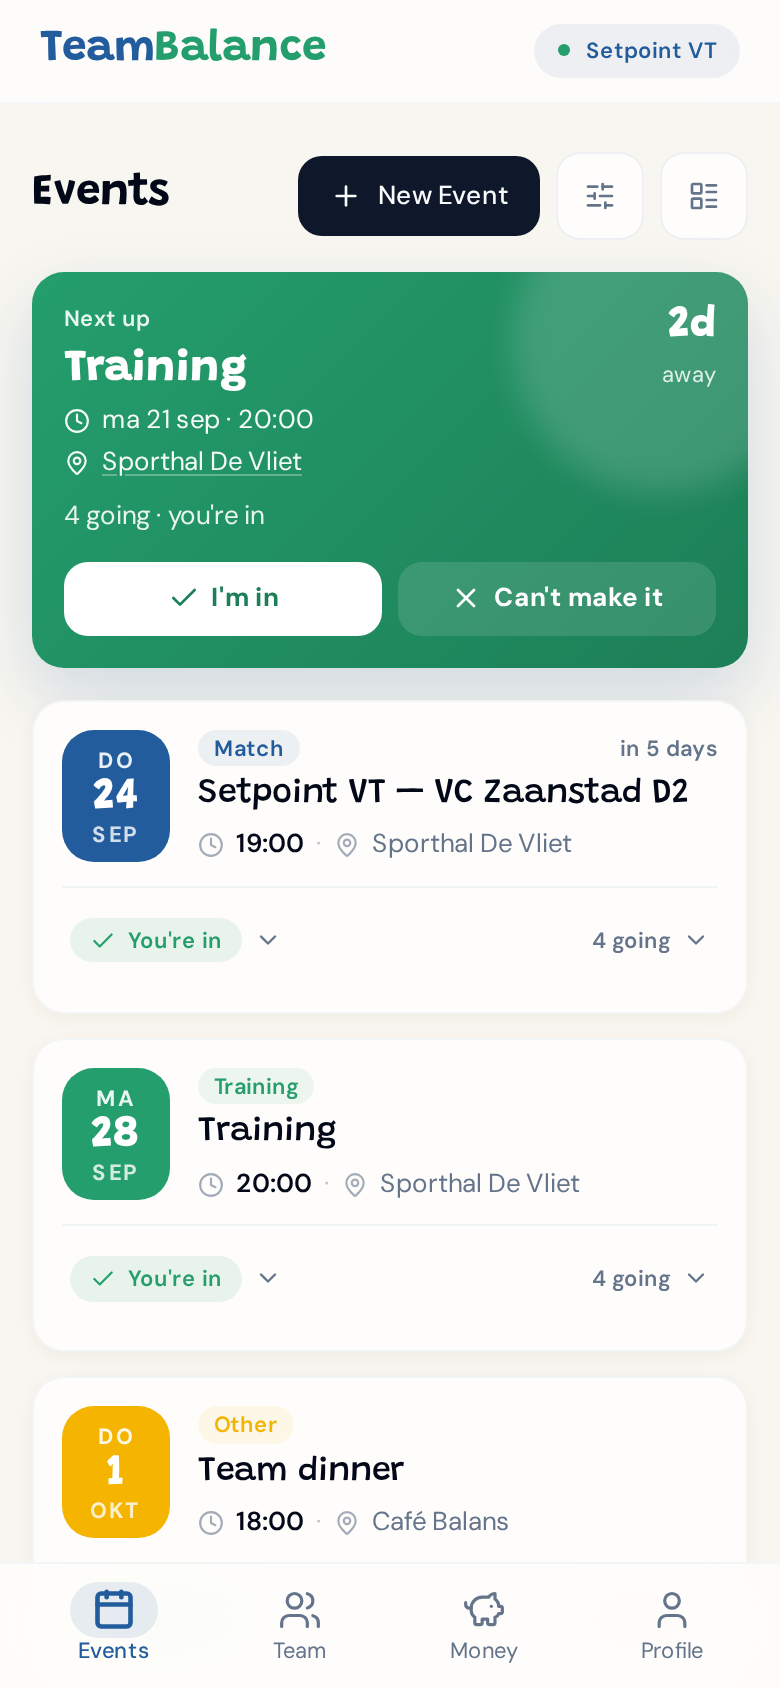
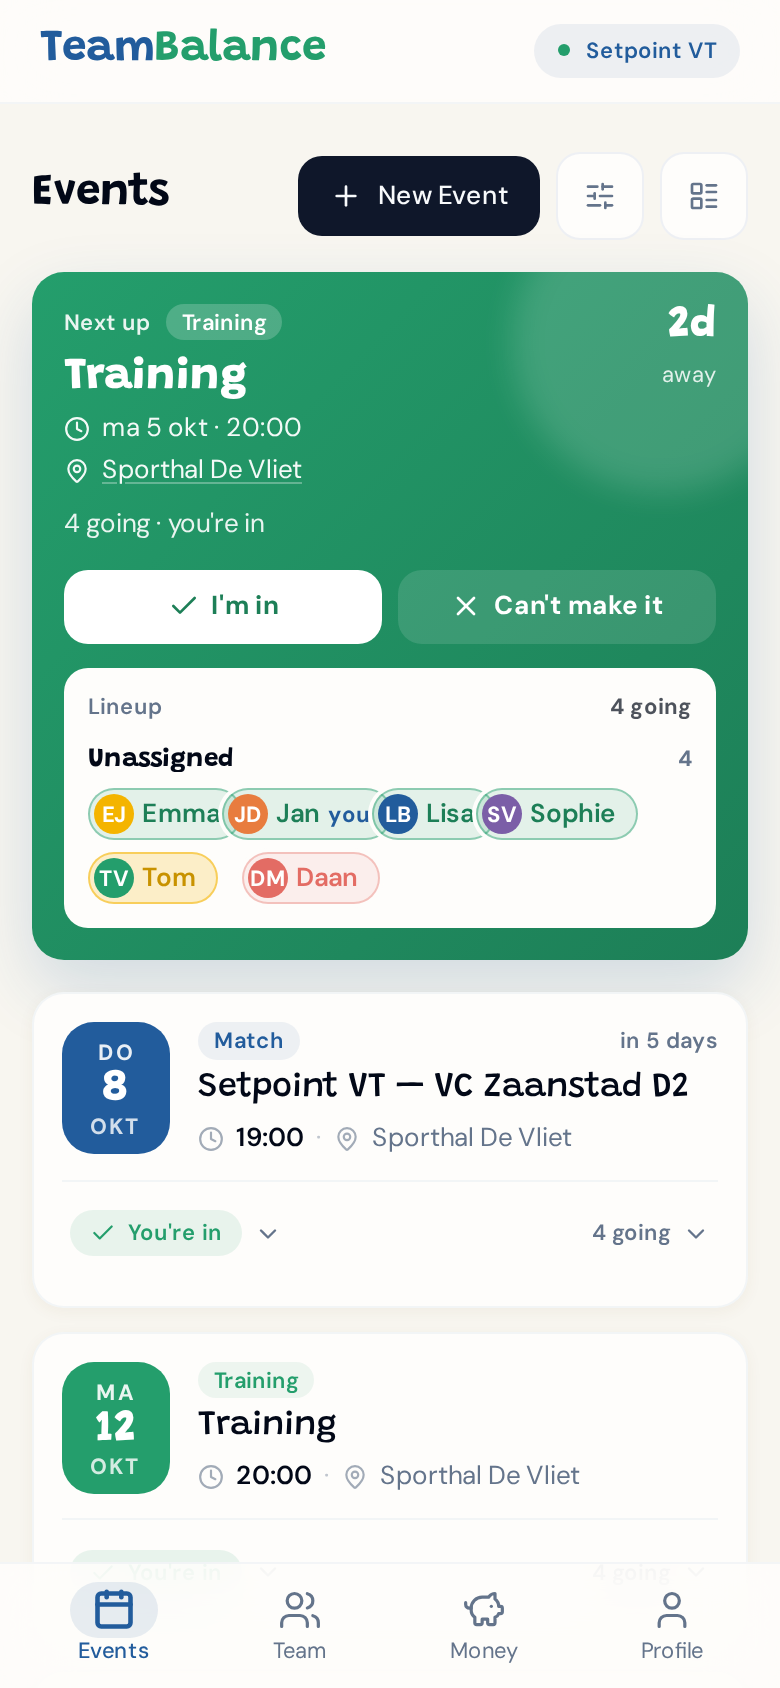
feat(app): show every card detail in the Next Up hero, lineup always open
The hero now carries the event type, the description and the lineup panel
the list cards open. The lineup has no disclosure: the next event is the
one whose roster matters right now.

Claude-Session: https://claude.ai/code/session_01Ahdm1u6Aoj3fgoRdJv4AwN

diff --git a/app/src/widgets/next-event-hero/ui/NextEventHeroView.stories.tsx b/app/src/widgets/next-event-hero/ui/NextEventHeroView.stories.tsx
@@ -1,8 +1,9 @@
 import type { Meta, StoryObj } from '@storybook/react-vite'
 import { expect, fn, within } from 'storybook/test'
 import { withRouter } from '@shared/testing/router-decorator'
-import { makeEvent, makeRoster, NO_ROSTER } from '@shared/testing/event-fixtures'
+import { makeAttendee, makeEvent, makeRoster, NO_ROSTER } from '@shared/testing/event-fixtures'
 import { Stack } from '@shared/testing/stack'
+import { EventLineupPanel } from '@widgets/event-panel/ui/EventLineupPanel'
 import { NextEventHeroView } from './NextEventHeroView'
 
 // NextEventHeroView is the prop-only Next Up hero behind the NextEventHero container: the event,
@@ -31,8 +32,20 @@ const EVENT = makeEvent({
   title: 'Training — Court 2',
   startTime: new Date(2026, 7, 12, 20, 0).toISOString(),
   location: 'Sporthal De Toekomst',
+  description: 'Bring both shirts — we split into two sides for the last half hour.',
   attendanceSummary: { attending: 10, maybe: 1, absent: 0, notResponded: 4, roleBreakdown: [] },
+  attendances: [
+    makeAttendee('u-me', 'Julius', 'Setter', { state: 'NOT_RESPONDED' }),
+    makeAttendee('u-2', 'Sanne', 'Setter'),
+    makeAttendee('u-3', 'Lars', 'Libero'),
+  ],
 })
+
+// The same panel the list cards open, always shown here. Its answer wiring is the container's, so
+// the stories prove only that it renders and that its chips stay above the card link's overlay.
+const LINEUP = (
+  <EventLineupPanel attendances={EVENT.attendances} roster={EVENT.roster} currentUserId="u-me" onRespond={fn()} />
+)
 
 const READY_EVENT = makeEvent({
   ...EVENT,
@@ -74,10 +87,18 @@ type Story = StoryObj<typeof meta>
 // Picture owned by the page composite (pages/EventsPageView) — behavioural only (ADR-0032 §3).
 export const Data: Story = {
   parameters: { chromatic: { disableSnapshot: true } },
+  args: { lineup: LINEUP },
   play: async ({ canvas }) => {
     await expect(canvas.getByText('Next up')).toBeInTheDocument()
+    // Every detail a list card carries: type, title, time, location, description and the lineup.
+    await expect(canvas.getByText('Training')).toBeInTheDocument()
     await expect(canvas.getByText('Training — Court 2')).toBeInTheDocument()
     await expect(canvas.getByText('Sporthal De Toekomst')).toBeInTheDocument()
+    await expect(canvas.getByText(/Bring both shirts/)).toBeInTheDocument()
+    // The lineup is open from the start — there is no disclosure to tap.
+    await expect(canvas.getByText('Lineup')).toBeInTheDocument()
+    await expect(canvas.getByRole('button', { name: /^Sanne/ })).toBeInTheDocument()
+    await expect(canvas.queryByRole('button', { name: /Show lineup/ })).not.toBeInTheDocument()
     // Two days and eleven hours out, floored to the largest useful unit.
     await expect(canvas.getByText('2d')).toBeInTheDocument()
     await expect(canvas.getByText(/10 going · you haven't responded/)).toBeInTheDocument()
@@ -215,7 +236,7 @@ export const Interactions: Story = {
   render: (args) => (
     <Stack
       items={{
-        Default: <NextEventHeroView {...args} />,
+        Default: <NextEventHeroView {...args} lineup={LINEUP} />,
         Saving: <NextEventHeroView {...args} isSaving />,
       }}
     />
@@ -247,6 +268,10 @@ export const Interactions: Story = {
       const button = within(defaultRegion).getByRole('button', { name })
       await expect(topmostAtCentreOf(button)?.closest('button')).toBe(button)
     }
+
+    // The lineup's chips open the answer sheet, so they sit above the overlay too.
+    const chip = within(defaultRegion).getByRole('button', { name: /^Sanne/ })
+    await expect(topmostAtCentreOf(chip)?.closest('button')).toBe(chip)
 
     // The location opens maps, so it stays its own target — and stays a *sibling* of the card link
     // rather than a nested <a>, which is invalid HTML.

diff --git a/app/src/widgets/next-event-hero/ui/NextEventHeroView.tsx b/app/src/widgets/next-event-hero/ui/NextEventHeroView.tsx
@@ -1,4 +1,5 @@
 import { Link } from '@tanstack/react-router'
+import type { ReactNode } from 'react'
 import { Check, Clock, MapPin, X } from 'lucide-react'
 import type { Event } from '@shared/api/events'
 import type { AttendanceState } from '@features/attendance-toggle/ui/AttendanceToggle'
@@ -16,6 +17,12 @@ interface NextEventHeroViewProps {
   onRespond: (state: AttendanceState) => void
   /** Injected so the countdown is deterministic in stories; defaults to the real clock. */
   now?: Date
+  /**
+   * The lineup, always shown: the list cards keep it behind a disclosure, but the next event is the
+   * one whose roster matters right now. Injected for the same reason as on the card — it is built
+   * from widgets this View should not have to wire.
+   */
+  lineup?: ReactNode
 }
 
 /** The status line's second clause — what the viewer has (or hasn't) said. */
@@ -41,6 +48,7 @@ export function NextEventHeroView({
   isSaving = false,
   onRespond,
   now = new Date(),
+  lineup,
 }: NextEventHeroViewProps) {
   const routes = useTeamRoutes()
   const date = new Date(event.startTime)
@@ -75,9 +83,15 @@ export function NextEventHeroView({
       {/* The passive rows fade with a colour alpha (text-white/xx), never with `opacity`: an
           element with opacity < 1 forms its own stacking context and would paint *above* the
           title's stretched overlay, punching a dead hole in the card's hit area. */}
-      <SectionLabel as="p" className="pr-12 text-white/90">
-        Next up
-      </SectionLabel>
+      <div className="flex items-center gap-2 pr-12">
+        <SectionLabel as="p" className="text-white/90">
+          Next up
+        </SectionLabel>
+        {/* The card's type tag, in white: the type's own tint has no contrast on the green. */}
+        <span className="rounded-full bg-white/20 px-2 py-0.5 text-caption font-semibold">
+          {event.eventType.name}
+        </span>
+      </div>
 
       <h3 className="font-display mb-1 mt-2 pr-12 text-title font-extrabold leading-[1.08]">
         {/* Stretched-link pattern, as EventCard uses in the list below: the card is not an anchor,
@@ -118,6 +132,10 @@ export function NextEventHeroView({
             {event.location}
           </a>
         </p>
+      )}
+
+      {event.description && (
+        <p className="mt-1.5 line-clamp-2 text-small text-white/85">{event.description}</p>
       )}
 
       {/* The headcount and the viewer's answer on the left; the roster verdict on the right (#275).
@@ -164,6 +182,12 @@ export function NextEventHeroView({
           Can&apos;t make it
         </button>
       </div>
+
+      {/* On a light surface of its own: the panel is drawn in the card's palette. relative z-10 lifts
+          its chips above the stretched overlay. */}
+      {lineup && (
+        <div className="relative z-10 mt-3 rounded-md bg-card p-3 text-foreground">{lineup}</div>
+      )}
     </section>
   )
 }

diff --git a/app/src/pages/events/ui/EventsPageView.stories.tsx b/app/src/pages/events/ui/EventsPageView.stories.tsx
@@ -223,6 +223,17 @@ function EventsPageHarness(args: HarnessArgs) {
               args.onHeroRespond(state)
               answer(hero.id, 'u-me', state)
             }}
+            lineup={
+              <EventLineupPanel
+                attendances={hero.attendances}
+                roster={hero.roster}
+                currentUserId="u-me"
+                onRespond={(userId, state) => {
+                  args.onRespondFor(hero.id, userId, state)
+                  answer(hero.id, userId, state)
+                }}
+              />
+            }
           />
         )
       }
@@ -402,8 +413,9 @@ export const Interactions: Story = {
     await expect(canvas.getAllByRole('button', { name: /Hide lineup/ }).length).toBeGreaterThan(0)
 
     // Answering for a teammate from a card's lineup: the chip opens the answer sheet, which names
-    // them, and the pick reports the event, the member and the state through the panel slot.
-    await userEvent.click(canvas.getAllByRole('button', { name: /Sofia — Maybe/ })[0])
+    // them, and the pick reports the event, the member and the state through the panel slot. The
+    // hero's lineup is always open and comes first, so the match card's chip is the second.
+    await userEvent.click(canvas.getAllByRole('button', { name: /Sofia — Maybe/ })[1])
     const sheet = within(await within(document.body).findByRole('dialog'))
     await expect(sheet.getByText(/you are answering for them/)).toBeInTheDocument()
     await userEvent.click(sheet.getByRole('button', { name: "Can't go" }))

diff --git a/app/src/widgets/next-event-hero/ui/NextEventHero.tsx b/app/src/widgets/next-event-hero/ui/NextEventHero.tsx
@@ -2,6 +2,7 @@ import { useEvent, type Event } from '@shared/api/events'
 import { useSetAttendance } from '@shared/api/attendances'
 import { useCurrentUser } from '@shared/api/auth'
 import type { AttendanceState } from '@features/attendance-toggle/ui/AttendanceToggle'
+import { EventLineupPanel } from '@widgets/event-panel/ui/EventLineupPanel'
 import { NextEventHeroView } from './NextEventHeroView'
 
 /**
@@ -28,15 +29,26 @@ export function NextEventHero({ event, now }: { event: Event; now?: Date }) {
     (detail?.attendances.find((a) => a.userId === currentUserId)?.state as AttendanceState) ??
     'NOT_RESPONDED'
 
+  const shown = detail ?? event
+
   return (
     <NextEventHeroView
-      event={detail ?? event}
+      event={shown}
       myState={myState}
       isSaving={isPending}
       now={now}
       onRespond={(state) => {
         if (currentUserId) mutate({ eventId: event.id, userId: currentUserId, state })
       }}
+      lineup={
+        <EventLineupPanel
+          attendances={shown.attendances}
+          roster={shown.roster}
+          currentUserId={currentUserId}
+          pending={isPending}
+          onRespond={(userId, state) => mutate({ eventId: event.id, userId, state })}
+        />
+      }
     />
   )
 }
